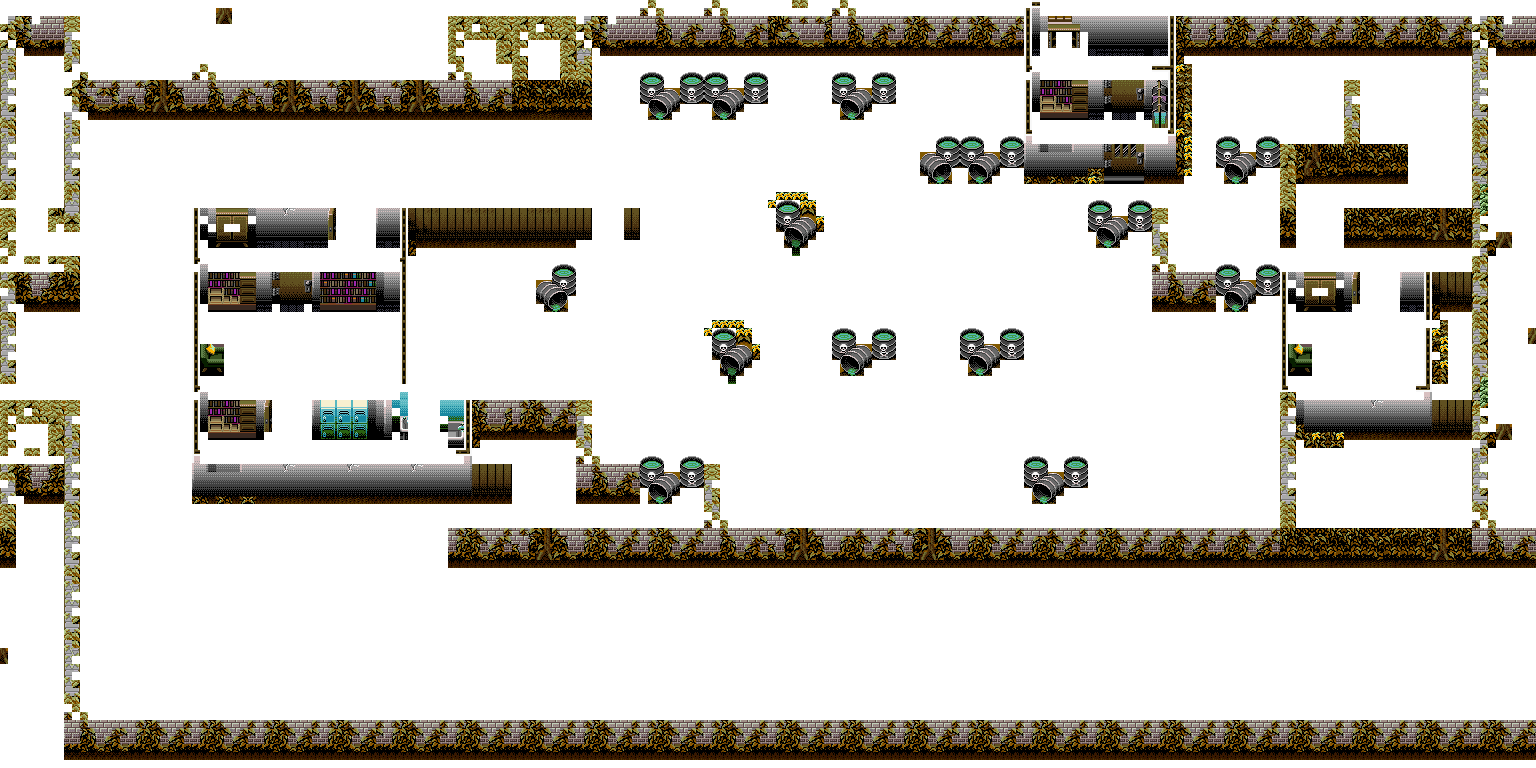
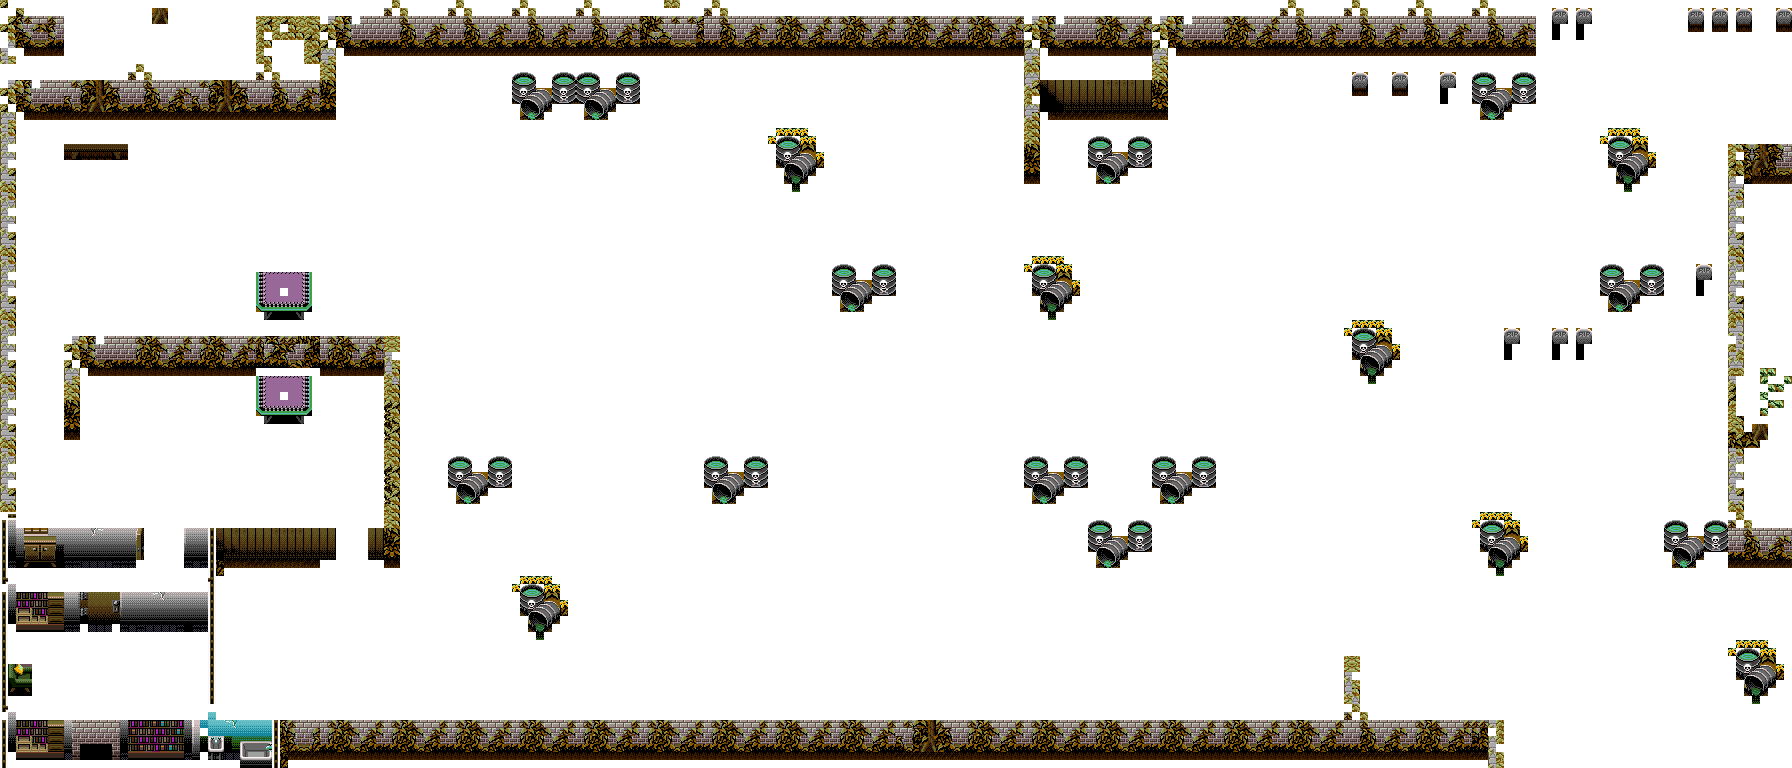
Fix SNES map worlds and collision masks

diff --git a/tools/extract_snes_levels.py b/tools/extract_snes_levels.py
@@ -11,12 +11,12 @@ ROOT = Path(__file__).resolve().parents[1]
 ROM = ROOT / "ZombiesApp" / "rom" / "zamn.sfc"
 OUT = ROOT / "ZamnNative" / "assets"
 LEVELS = [
-    (1, 0xF8072, "Weird Kids on the Block"),
-    (2, 0xF826D, "Mushroom Men"),
-    (3, 0xF83DA, "Day of the Tentacle"),
-    (4, 0xF85C9, "Super Fund Cleanup Site"),
-    (5, 0xF87C9, "Toxic Terrors"),
-    (6, 0xF8965, "Ants"),
+    (1, 0xF9060, "Zombie Panic"),
+    (2, 0xF8072, "Weird Kids on the Block"),
+    (3, 0xF826D, "Mushroom Men"),
+    (4, 0xF83DA, "Day of the Tentacle"),
+    (5, 0xF85C9, "Super Fund Cleanup Site"),
+    (6, 0xF87C9, "Toxic Terrors"),
 ]
 
 rom = ROM.read_bytes()
@@ -108,10 +108,10 @@ def extract(level_no, level_pos, title):
                 for i in range(width * height)]
     image = Image.new("RGB", (width * 64, height * 64))
     upper = Image.new("RGBA", (width * 64, height * 64), (0, 0, 0, 0))
-    walk_blocks = bytearray(width * height)
+    block_masks = []
     for my, meta in enumerate(tile_map):
         block = meta * 0x80
-        walkable = False
+        block_walk = bytearray([1] * 16)
         for n in range(64):
             tile = map16[block + n * 2]
             attr = map16[block + n * 2 + 1]
@@ -120,20 +120,37 @@ def extract(level_no, level_pos, title):
             draw_tile(image, (my % width) * 64 + (n % 8) * 8,
                       (my // width) * 64 + (n // 8) * 8,
                       gfx, tile, colors, pal_index, bool(attr & 0x40), bool(attr & 0x80))
-            # The editor marks a map16 tile as traversable when its collision
-            # pair is empty; one traversable tile makes the block enterable.
-            if collision_data[tile * 2] == 0 and collision_data[tile * 2 + 1] == 0:
-                walkable = True
+            # The collision table marks the solid/priority tile pairs used by
+            # the SNES map16 data. Build four real 16x16 collision cells per
+            # 64x64 block instead of treating the whole block as one cell.
+            cell = ((n // 8) // 2) * 4 + ((n % 8) // 2)
+            if collision_data[tile * 2] != 0 or collision_data[tile * 2 + 1] != 0:
+                block_walk[cell] = 0
             if collision_data[tile * 2] & 1 and not (collision_data[tile * 2 + 1] & 1):
                 draw_tile(upper, (my % width) * 64 + (n % 8) * 8,
                           (my // width) * 64 + (n // 8) * 8,
                           gfx, tile, colors, pal_index, bool(attr & 0x40), bool(attr & 0x80), True)
-        walk_blocks[my] = 1 if walkable else 0
+        for row in range(4):
+            for col in range(4):
+                cell = row * 4 + col
+                walkable = not bool(block_walk[cell])
+                px0 = (my % width) * 64 + col * 16
+                py0 = (my // width) * 64 + row * 16
+                blue = 0
+                for yy in range(py0, py0 + 16):
+                    for xx in range(px0, px0 + 16):
+                        r, g, b = image.getpixel((xx, yy))
+                        if b > 120 and b > g * 1.35 and r < 100:
+                            blue += 1
+                if blue > 32:
+                    walkable = False
+                block_walk[cell] = 1 if walkable else 0
+        block_masks.append(block_walk)
     walk = bytearray()
     for by in range(height):
-        for sy in range(4):
+        for row in range(4):
             for bx in range(width):
-                walk.extend([walk_blocks[by * width + bx]] * 4)
+                walk.extend(block_masks[by * width + bx][row * 4:(row + 1) * 4])
     image.save(OUT / f"level{level_no}_snes.png")
     upper.save(OUT / f"level{level_no}_snes_upper.png")
     (OUT / f"walk{level_no}_snes.bin").write_bytes(walk)

diff --git a/zamn.py b/zamn.py
@@ -871,7 +871,7 @@ def load_sheet(name, key_mode):
     return surf
 
 
-def expand_world(tex, walk):
+def expand_world(tex, walk, connect=True):
     """Scale a world and its walk mask together, preserving pixel collisions."""
     source_tw = max(1, tex.get_width() // TS)
     source_th = max(1, tex.get_height() // TS)
@@ -885,7 +885,7 @@ def expand_world(tex, walk):
         for tx in range(TW):
             sx = min(source_tw - 1, int(tx * source_tw / TW))
             expanded[ty * TW + tx] = walk[sy * source_tw + sx]
-    return tex, connect_walk_regions(expanded)
+    return tex, connect_walk_regions(expanded) if connect else expanded
 
 
 def connect_walk_regions(mask):
@@ -923,18 +923,11 @@ def connect_walk_regions(mask):
 
 def build_world_variants():
     global texWorlds, walkWorlds
-    bases = [texLevel1, texLevel2, texLevel1, texLevel2, texLevel1, texLevel2]
-    walks = [gWalk1, gWalk2, gWalk1, gWalk2, gWalk1, gWalk2]
-    tints = [None, None, (190, 105, 45), (35, 125, 145), (115, 65, 170), (155, 45, 65)]
+    bases = [texLevel1, texLevel2, texLevel3, texLevel4, texLevel5, texLevel6]
+    walks = [gWalk1, gWalk2, gWalk3, gWalk4, gWalk5, gWalk6]
     texWorlds, walkWorlds = [], []
-    for base, walk, tint in zip(bases, walks, tints):
-        variant = base
-        if tint is not None:
-            variant = base.copy()
-            wash = pygame.Surface((MAP_W, MAP_H), pygame.SRCALPHA)
-            wash.fill((tint[0], tint[1], tint[2], 42))
-            variant.blit(wash, (0, 0))
-        texWorlds.append(variant)
+    for base, walk in zip(bases, walks):
+        texWorlds.append(base)
         walkWorlds.append(walk)
 
 
@@ -973,7 +966,7 @@ def load_assets():
             image = pygame.image.load(image_path).convert()
             with open(walk_path, "rb") as f:
                 walk = bytearray(f.read())
-            return expand_world(image, walk)
+            return expand_world(image, walk, connect=False)
         return fallback_image, fallback_walk
 
     base_image = pygame.image.load(os.path.join(ASSETS, "level_big.png")).convert()
